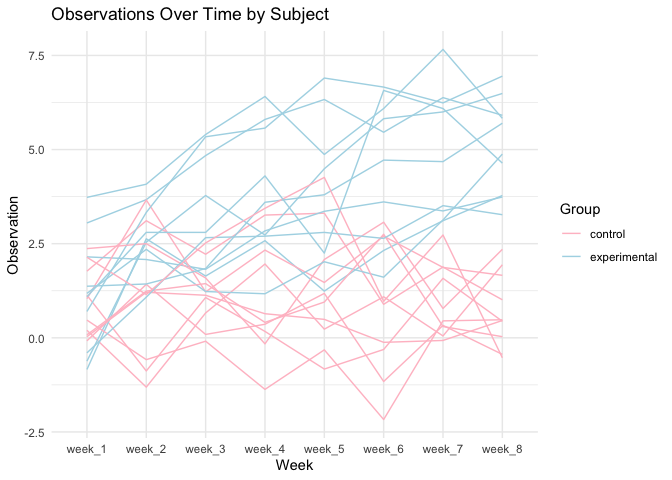
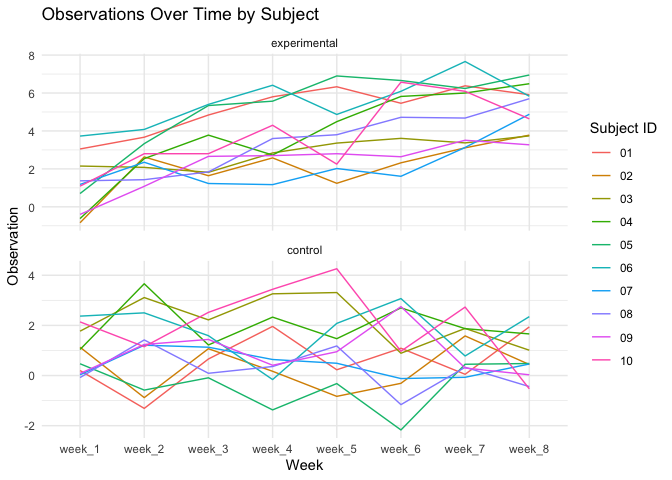
Update 7:22pm

diff --git a/p8105_hw5_sw3737.md b/p8105_hw5_sw3737.md
@@ -3,7 +3,7 @@ p8105_hw5_sw3737
 Shiqi Wu
 2023-11-14
 
-# Problem 1
+# Problem 2
 
 ## Creating a Dataframe and Binding the Data
 
@@ -178,14 +178,20 @@ tidy_data <- combined_data %>%
 ## Creating a Spaghetti Plot
 
 ``` r
-ggplot(tidy_data, aes(x = week, y = observation, group = interaction(arm, subject_id), color = arm)) +
+tidy_data <- tidy_data %>%
+  mutate(
+    arm = factor(arm, levels = c("experimental", "control")),
+    subject_id = as.factor(subject_id)
+  )
+
+ggplot(tidy_data, aes(x = week, y = observation, group = interaction(arm, subject_id), color = subject_id)) +
   geom_line() +
-  scale_color_manual(values = c("control" = "pink", "experimental" = "lightblue")) +
+  scale_color_discrete(guide = guide_legend(title = "Subject ID")) +
   labs(title = "Observations Over Time by Subject",
        x = "Week",
-       y = "Observation",
-       color = "Group") +
-  theme_minimal()
+       y = "Observation") +
+  theme_minimal() +
+  facet_wrap(~arm, scales = "free_y", ncol = 1) 
 ```
 
 ![](p8105_hw5_sw3737_files/figure-gfm/unnamed-chunk-3-1.png)<!-- -->
@@ -221,8 +227,8 @@ for (mu in mu_values) {
   for (i in 1:num_datasets) {
     sample_data <- rnorm(n, mean = mu, sd = sigma)
     test_result <- broom::tidy(t.test(sample_data, mu = 0))
-    mu_hat <- test_result$estimate
-    p_value <- test_result$p.value
+    mu_hat <- test_result[["estimate"]]
+    p_value <- test_result[["p.value"]]
     reject_null <- p_value < alpha
     results <- rbind(results, data.frame(mu, p_value, mu_hat, reject_null))
   }
@@ -238,23 +244,42 @@ power_data <- aggregate(reject_null ~ mu, data = results, FUN = mean)
 
 ggplot(power_data, aes(x = mu, y = reject_null)) +
   geom_line() +
+  geom_point() +
   labs(x = "True value of μ", y = "Power of the Test", title = "Power vs. True Value of μ")
 ```
 
 ![](p8105_hw5_sw3737_files/figure-gfm/unnamed-chunk-6-1.png)<!-- -->
+
+The plot shows a clear positive association between effect size and
+power: as the true value of μ increases, the power of the test also
+increases. This indicates that the ability of the test to reject a false
+null hypothesis improves with larger effect sizes. When the difference
+between the true mean and the null hypothesis mean grows, the test is
+more likely to detect that difference as significant.
 
 ### Plotting Average Estimate of μ̂ vs. True Value of μ
 
 ``` r
 avg_mu_hat <- aggregate(mu_hat ~ mu, data = results, FUN = mean)
 
+# Average estimate of mu_hat when null is rejected
 avg_mu_hat_reject <- aggregate(mu_hat ~ mu, data = results[results$reject_null == TRUE, ], FUN = mean)
 
 ggplot() +
   geom_line(data = avg_mu_hat, aes(x = mu, y = mu_hat), color = "lightblue") +
+  geom_point(data = avg_mu_hat, aes(x = mu, y = mu_hat), color = "lightblue") +
   geom_line(data = avg_mu_hat_reject, aes(x = mu, y = mu_hat), color = "pink") +
+  geom_point(data = avg_mu_hat_reject, aes(x = mu, y = mu_hat), color = "pink") +
   labs(x = "True value of μ", y = "Average estimate of μ̂", title = "Average Estimate of μ̂ vs. True Value of μ") +
   scale_color_manual("", breaks = c("lightblue", "pink"), values = c("lightblue" = "All Samples", "pink" = "Null Rejected"))
 ```
 
 ![](p8105_hw5_sw3737_files/figure-gfm/unnamed-chunk-7-1.png)<!-- -->
+
+The plot indicates that the sample average of μ̂ for tests where the null
+hypothesis is rejected is approximately equal to the true value of μ,
+especially as the true value of μ increases. There exists discrepancy
+which can be attributed to the fact that when the null hypothesis is
+rejected, it is often because the sample mean is sufficiently extreme,
+thus leading to an overestimate of the population mean due to sampling
+variability.
